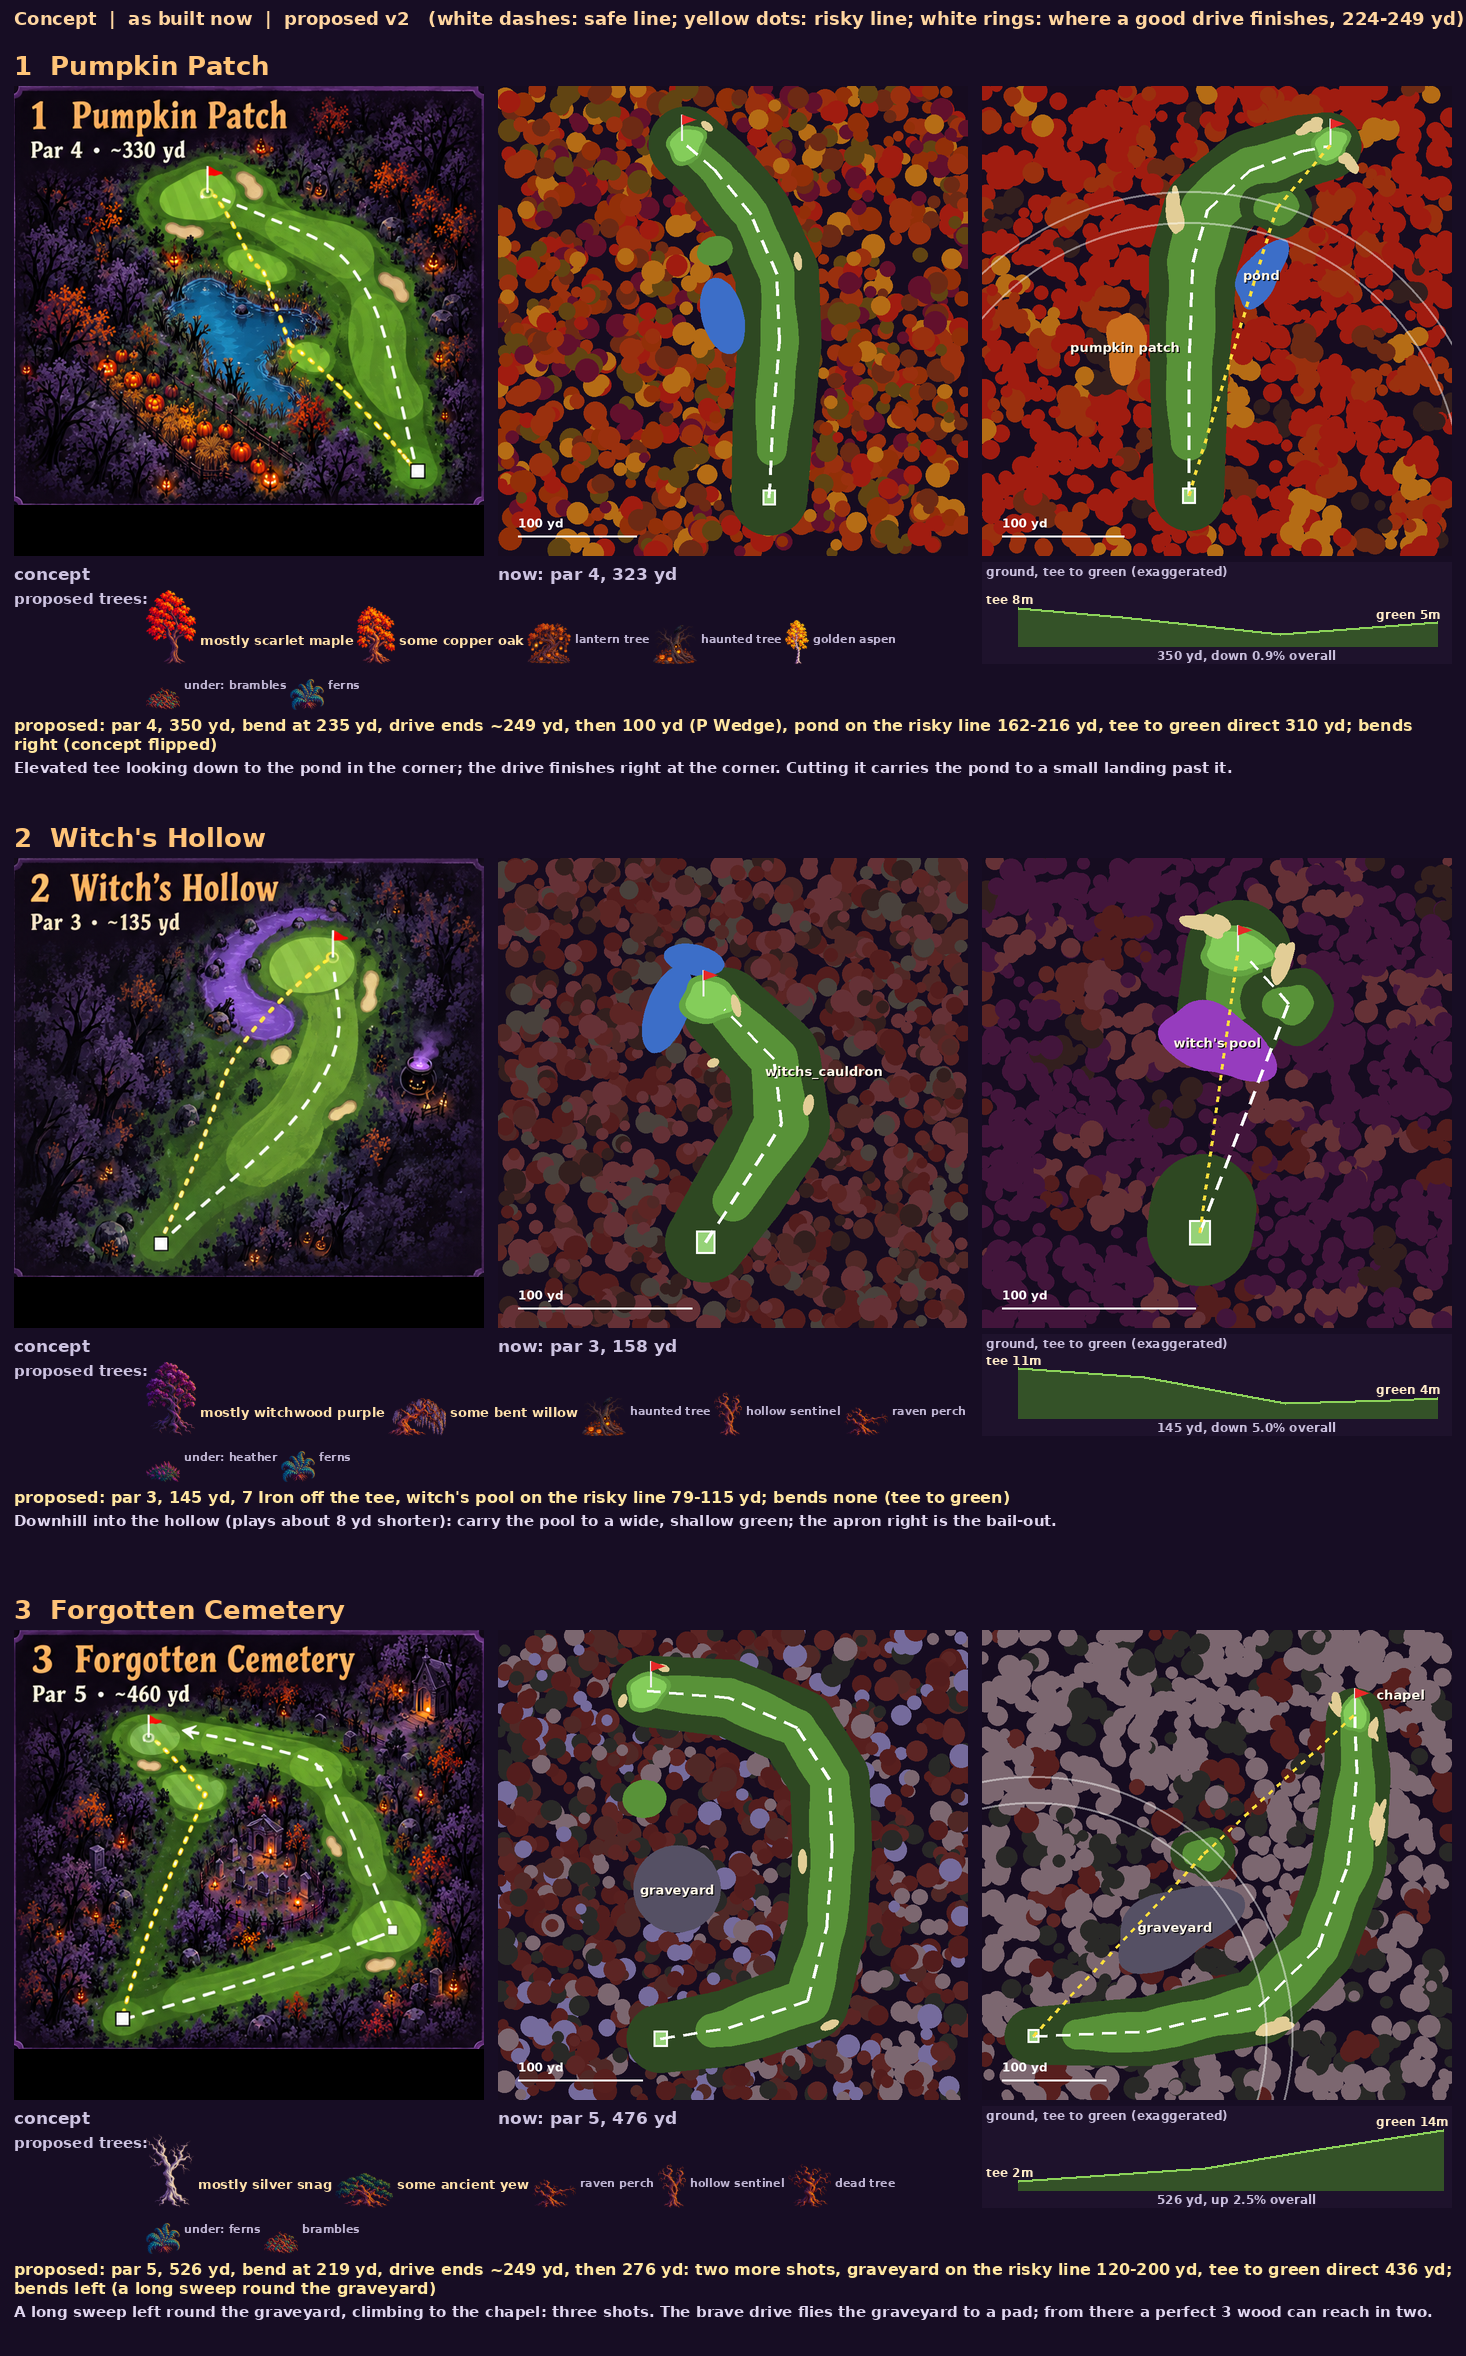
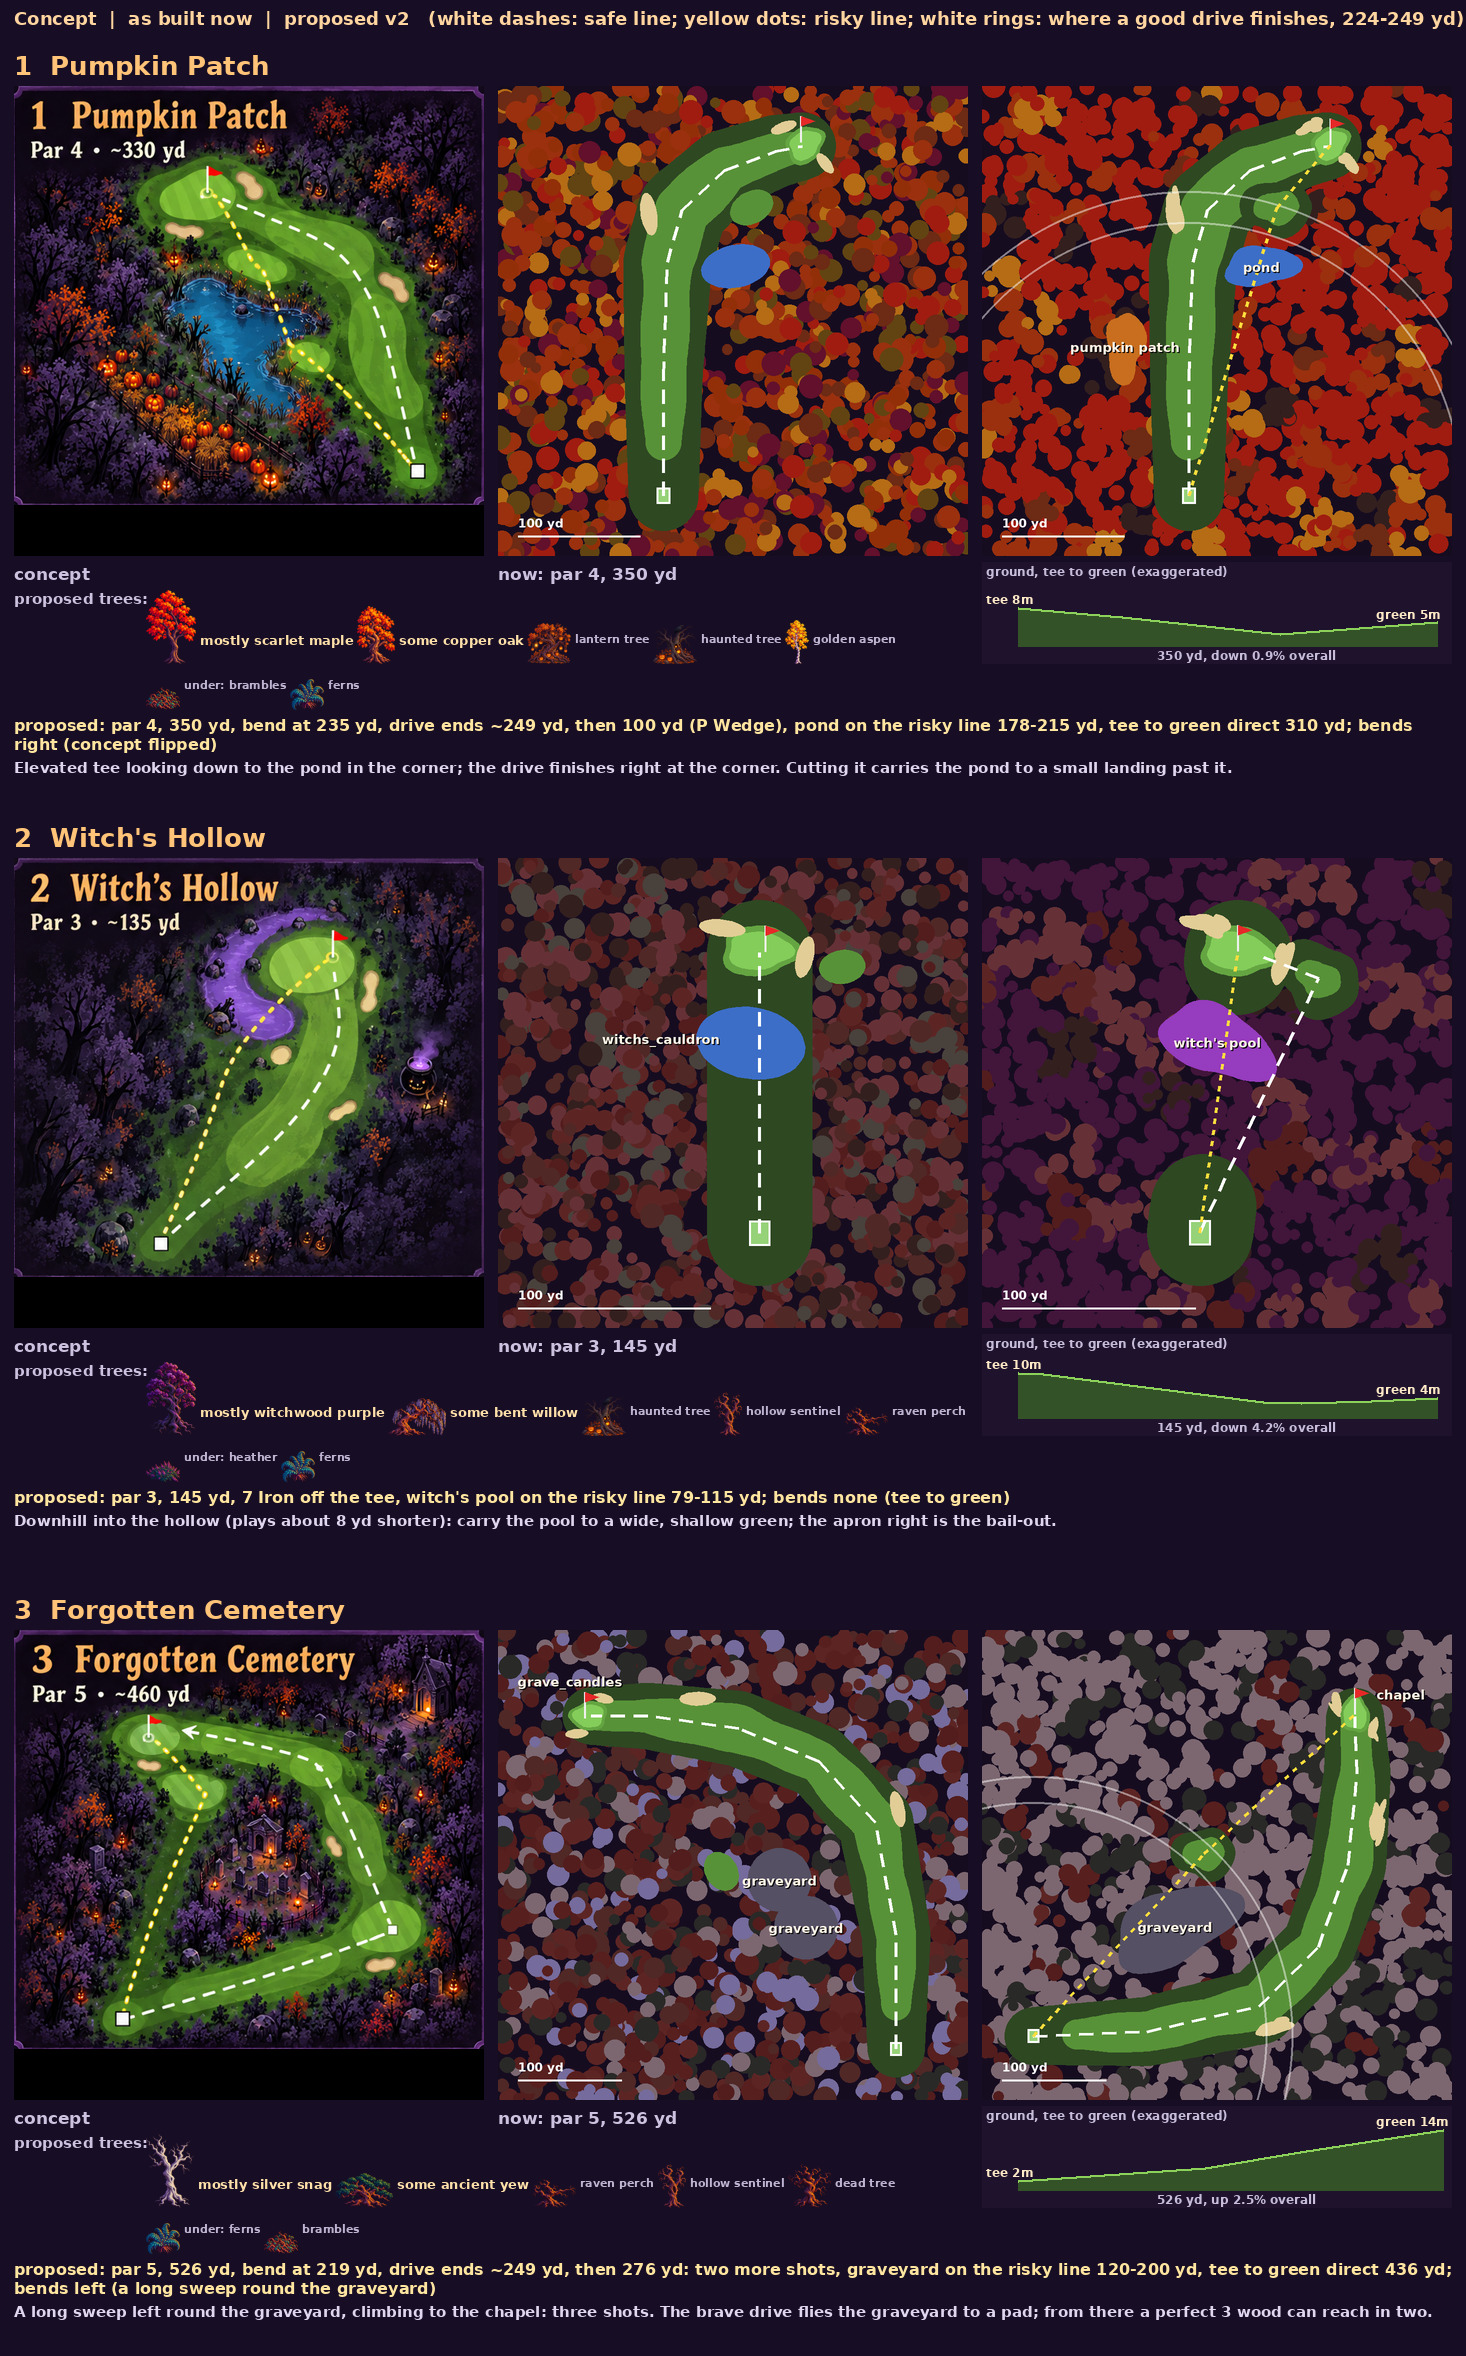
Course redesign: grades checked on all nine layouts before building
Pond banks graded toward 3:1 (ravine walls stay rock); real-size greenside bunkers 0.65 m deep;
greens tilt 1.7% (kept precise when a hole is turned); hole 2's pool in a flat hollow with no
fairway strip, bail-out beside the green in level open ground; hole 6 the same; holes 7 and 8 lower
greens on their uphill approaches; hole 8's left route stops short of the ravine with open ground
between the routes. Every layout now passes the builder's grade limits.

Claude-Session: https://claude.ai/code/session_01VAUjUguVX6tbdgmz3FqzWB

Changed region(s): [[0.3377, 0.3408, 1.0, 0.6197], [0.3377, 0.031, 1.0, 0.2479], [0.3377, 0.6817, 1.0, 0.8986]]

diff --git a/golf/tools/plan_holes2.py b/golf/tools/plan_holes2.py
@@ -80,13 +80,13 @@ PLAN = {
         "note": "Elevated tee looking down to the pond in the corner; the drive finishes right at the corner. "
                 "Cutting it carries the pond to a small landing past it."},
     2: {"par": 3, "turn": "none (tee to green)",
-        "path": [[0, 0], [18, 132]], "widths": [24, 24], "fairway_start": 112,
+        "path": [[0, 0], [18, 132]], "widths": [24, 24], "fairway_start": 140,
         "green": g([18, 133], [15, 9], -0.25),
         "bunkers": [g([39, 127], [10, 4], 1.2), g([2, 146], [11, 4], -0.25)],
         "hazards": [g([8, 90], [26, 17], -0.3, color=PURPLE, label="witch's pool")],
-        "pads": [{"center": [42, 108], "radius": [12, 9], "rotation": 0.5}],
-        "risk": [[0, 0], [18, 133]], "safe": [[0, 0], [42, 108], [24, 128]],
-        "elev": [[0, 11.0], [40, 9.0], [85, 3.2], [118, 4.0], [133, 4.4]], "green_raise": 1.2,
+        "pads": [{"center": [56, 120], "radius": [11, 8], "rotation": 0.0}],
+        "risk": [[0, 0], [18, 133]], "safe": [[0, 0], [56, 120], [30, 130]],
+        "elev": [[0, 10.0], [8, 9.8], [78, 3.4], [90, 3.2], [112, 3.6], [133, 4.4]], "green_raise": 1.0,
         "note": "Downhill into the hollow (plays about 8 yd shorter): carry the pool to a wide, shallow green; "
                 "the apron right is the bail-out."},
     3: {"par": 5, "turn": "left (a long sweep round the graveyard)",
@@ -124,7 +124,7 @@ PLAN = {
         "note": "Three shots down the long diagonal through the farm: a bend at the drive, then the corn "
                 "maze all down the left of the second shot and the barn behind the green."},
     6: {"par": 3, "turn": "none (tee to green)",
-        "path": [[0, 0], [-18, 158]], "widths": [24, 24], "fairway_start": 146, "green_raise": 1.0,
+        "path": [[0, 0], [-18, 158]], "widths": [24, 24], "fairway_start": 175, "green_raise": 0.9,
         "green": g([-18, 159], [10, 14], 0.1),
         "bunkers": [g([-36, 170], [10, 4], 0.6), g([2, 172], [9, 4], -0.5)],
         "hazards": [{"line": [[-120, 70], [-80, 104], [-40, 118], [-8, 124], [6, 129]], "width": 18,
@@ -137,7 +137,7 @@ PLAN = {
     7: {"par": 4, "turn": "left",
         "path": [[0, 0], [5, 80], [10, 160], [-6, 220], [-52, 262], [-100, 278]],
         "widths": [24, 32, 40, 38, 30, 24], "fairway_start": 34,
-        "green": g([-102, 280], [13, 10], 0.4),
+        "green": g([-102, 280], [13, 10], 0.4), "green_raise": 0.6,
         "bunkers": [g([-86, 296], [10, 4], -0.4), g([-120, 264], [9, 4], 0.9), g([24, 195], [6, 16], -0.2)],
         "hazards": [g([-38, 180], [18, 26], 0.35, color=BLOOD, label="blood pond"),
                     g([80, 170], [24, 80], 0.0, color=HEDGE, label="hedge maze")],
@@ -150,13 +150,13 @@ PLAN = {
         "path": [[0, 0], [8, 90], [22, 175], [34, 240], [40, 300], [36, 382]],
         "widths": [24, 34, 42, 34, 32, 24], "fairway_start": 36,
         "extra_fairways": [[[[6, 110], [-26, 190], [-30, 270], [20, 372]], [28, 30, 28, 24]]],
-        "green": g([36, 384], [11, 15], -0.1),
+        "green": g([36, 384], [11, 15], -0.1), "green_raise": 0.5,
         "bunkers": [g([18, 392], [4, 10], 0.1), g([54, 376], [4, 10], -0.2), g([49, 202], [6, 15], 0.1)],
         "hazards": [{"line": [[-150, 322], [-60, 296], [0, 280], [60, 262], [160, 232]], "width": 22,
                      "color": RAVINE, "label": "ravine"}],
         "features": [{"pos": [-92, 326], "label": "Horseman"}],
         "risk": [[0, 0], [-24, 190], [-28, 270], [36, 384]],
-        "elev": [[0, 9.0], [200, 6.7], [245, 6.1], [262, 5.2], [278, 3.5], [300, 6.0], [388, 10.0]], "fairway_gap": [258, 304],
+        "elev": [[0, 9.0], [200, 6.7], [245, 6.1], [262, 5.2], [278, 3.5], [300, 6.0], [320, 6.6], [388, 9.0]], "fairway_gap": [258, 304],
         "note": "The long par 4. The ravine crosses beyond a drive's reach (~300 yd), so you lay up and carry it "
                 "with a long iron to the biggest green; the left fairway is narrower, past the Horseman."},
     9: {"par": 4, "turn": "hard left (horseshoe)",

diff --git a/golf/tools/make_course.py b/golf/tools/make_course.py
@@ -121,8 +121,12 @@ def pads_along(line, widths, skip=None):
 def extras(i, p):
     hz = {h.get("label"): h for h in p["hazards"]}
     e = {"water": [], "zones": [], "pads": [ell(q["center"], q["radius"], q.get("rotation", 0.0)) for q in p.get("pads", [])],
+         # (a par 3's bail-out pad stands in a little open ground of its own, level, no bank or woods)
          "graveyards": [], "pumpkin_clusters": copy.deepcopy(TEE_PUMPKINS), "fences": [], "features": [],
          "patches": [], "webs": [], "web_art": [], "cornfields": [], "hedges": []}
+
+    if p["par"] == 3:
+        e["zones"] += [grown(q, 13, surface="rough") for q in e["pads"]]
 
     def water(h, k, **kw):
         w = ell(h["center"], h["radius"], h["rotation"], level_offset=-0.6, lobes=LOBES[k % 4], **kw)
@@ -205,9 +209,12 @@ def extras(i, p):
         e["carry"] = list(p["fairway_gap"])
         # the left route: a narrower fairway past the Horseman, broken by the ravine like the main one
         line, widths = p["extra_fairways"][0]
-        e["pads"] += pads_along([[6, 110], [-26, 190], [-30, 266]], widths[:2]) + pads_along([[-24, 306], [20, 372]], widths[2:3])
+        e["pads"] += pads_along([[6, 110], [-26, 190], [-30, 254]], widths[:2]) + pads_along([[-20, 316], [20, 372]], widths[2:3])
         e["features"].append({"image": "statue_horseman", "pos": [-66, 318], "scale": 1.4, "clear": 9})
         e["zones"].append(ell([-6, 330], [100, 26], -0.25, surface="rough"))           # the far bank
+        # the ground between the two routes stays open (no framing bank rising between them)
+        e["zones"].append(ell([-10, 190], [92, 34], math.pi / 2 + 0.05, surface="rough"))
+        e["zones"] += [grown(q, 10, surface="rough") for q in e["pads"]]
         e["graveyards"].append({"center": [86, 330], "radius": 6, "count": 6, "fence": False})
         e["cart"] = {"side": -1, "offset": 6.0}
         e["pin"] = [-2, 4]
@@ -241,6 +248,9 @@ def turned(obj, A):
         for k, v in obj.items():
             if k in ("center", "pos", "face"):
                 out[k] = turn(v, A)
+            elif k == "slope":                   # a gradient: turned, kept fine (a green tilts ~1.7%)
+                c, sn = math.cos(A), math.sin(A)
+                out[k] = [round(v[0] * c - v[1] * sn, 5), round(v[0] * sn + v[1] * c, 5)]
             elif k == "rotation":
                 out[k] = round(v + A, 4)
             elif k in ("points", "safe", "risk"):
@@ -263,8 +273,8 @@ def layout(i):
     t = (last[0] / L, last[1] / L)
     n = (-t[1], t[0])
     side = 1 if i % 2 else -1
-    # the green tilts up away from the approach (back to front, ~2%), a little across
-    slope = [round(t[0] * 0.018 + n[0] * 0.008 * side, 4), round(t[1] * 0.018 + n[1] * 0.008 * side, 4)]
+    # the green tilts up away from the approach (back to front, ~1.7%), a little across
+    slope = [round(t[0] * 0.016 + n[0] * 0.006 * side, 4), round(t[1] * 0.016 + n[1] * 0.006 * side, 4)]
     green = {"center": g["center"], "radius": g["radius"], "rotation": g["rotation"], "slope": slope}
     if "green_raise" in p:
         green["raise"] = p["green_raise"]

diff --git a/golf/tools/hole_gen.py b/golf/tools/hole_gen.py
@@ -151,7 +151,8 @@ def realistic_bunkers(spec):
             b["center"] = [round(gx + ux * dist, 2), round(gy + uy * dist, 2)]
             b["radius"] = [round(long_r, 2), round(short_r, 2)]
             b["rotation"] = round(ang + math.pi / 2, 3)          # long way round the green
-            b["depth"] = max(b.get("depth", 0.45), 0.8)            # a face you can see from the fairway
+            # a face you can see from the fairway (real-size bunkers are wide enough to read at 0.65 m)
+            b["depth"] = max(b.get("depth", 0.45), 0.65 if spec.get("bunkers_real") else 0.8)
             b["greenside"] = True
         else:
             if spec.get("bunkers_real"):            # drawn at real size: ~12 x 30 m fairway bunkers
@@ -430,7 +431,8 @@ class Hole:
         for w in sp.get("water", []):
             wr, _ = ellipse_r(x, y, w)
             floor = w["level"] - 0.7
-            sink = 1 - smoothstep(0.8, 1.5, wr)
+            # the bank: wide enough to keep it near 3:1 down to the water (a ravine's walls, deeper, are rock)
+            sink = 1 - (smoothstep(0.8, 1.5, wr) if w.get("level_offset", -0.6) < -2.0 else smoothstep(0.7, 1.8, wr))
             if w.get("island"):
                 sink = sink * smoothstep(1.4, 2.2, gr)
             else:
@@ -558,8 +560,10 @@ def slope_report(hole, px, py, heights, spec):
     # a pond's banks are built steeper than playing rough (about 3:1, 33%): reported on their own
     bank = np.zeros(surf.shape, bool)
     for w in spec.get("water", []):
+        if w.get("level_offset", -0.6) < -2.0:       # a ravine: rock walls, not a pond bank
+            continue
         wr, _ = ellipse_r(px, py, w)
-        bank |= wr < 1.6
+        bank |= wr < 1.8
     for k, name in enumerate(SURFACE_NAMES):
         m = ndimage.binary_erosion(surf == k, iterations=1)   # interior cells only
         if name in ("rough", "deep_rough"):
